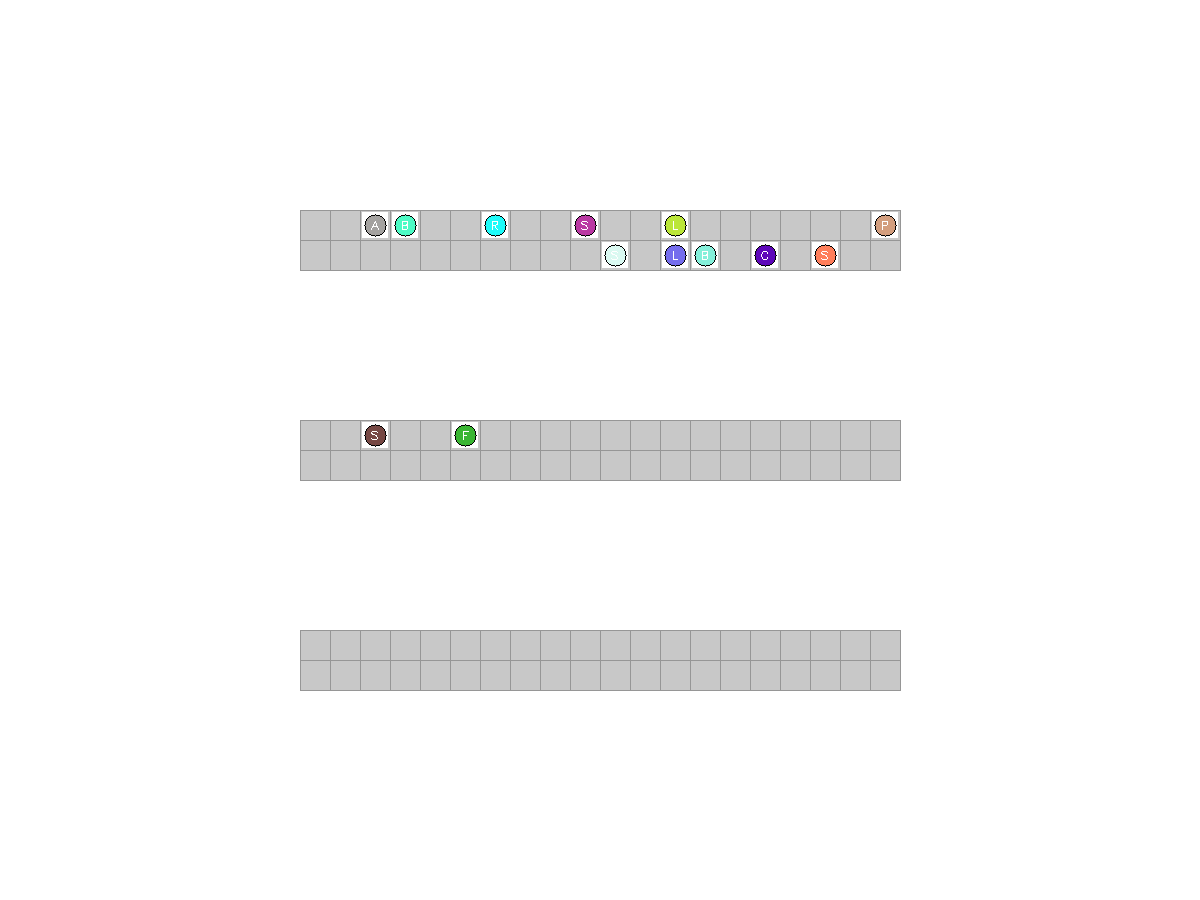
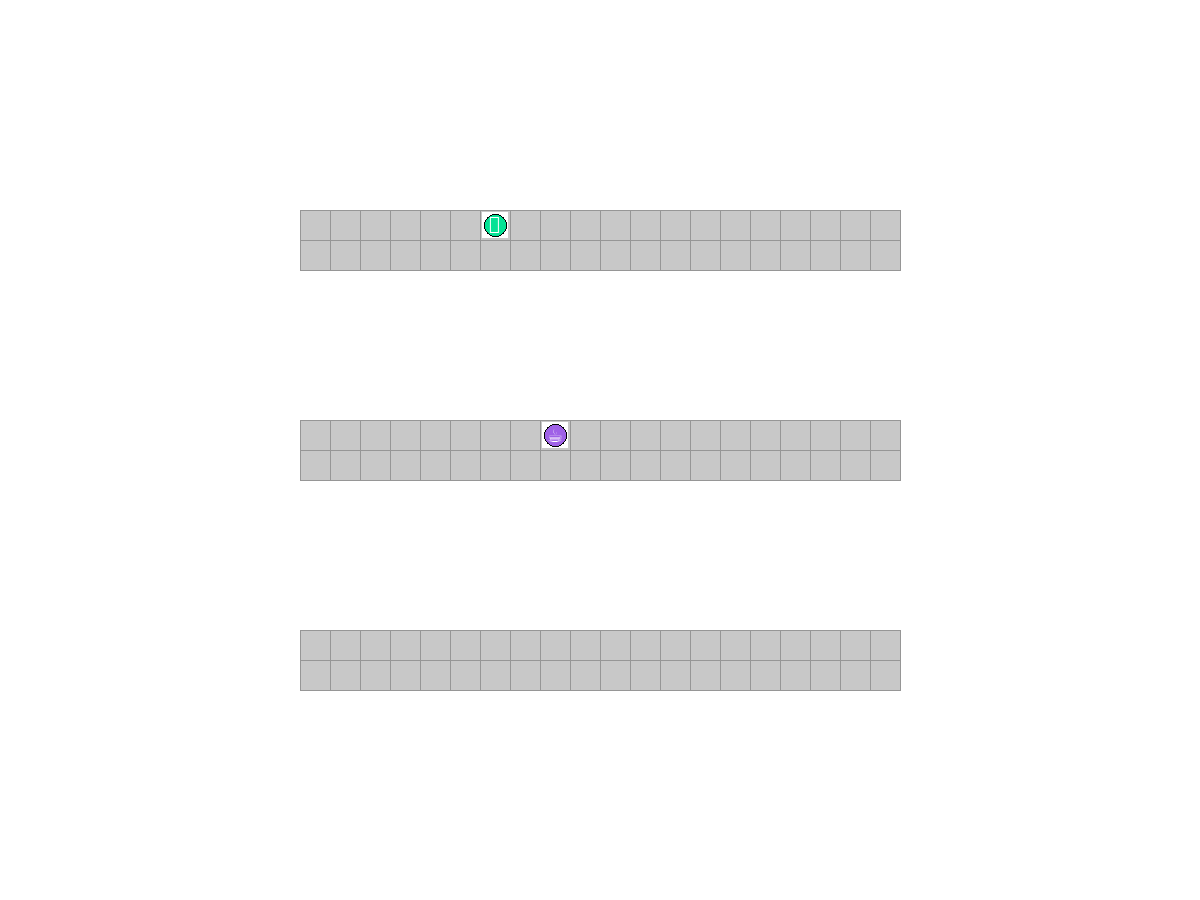
items

diff --git a/frontend/src/App.jsx b/frontend/src/App.jsx
@@ -101,6 +101,24 @@ function App() {
 
       <main className="main-content">
         <form className="product-form" onSubmit={handleSubmit}>
+          <div style={{ display: 'flex', gap: '1rem', marginBottom: '1rem', justifyContent: 'center' }}>
+            <button 
+              type="button" 
+              className="action-btn" 
+              style={{ background: 'var(--card-bg)', color: 'var(--text-color)', border: '1px solid var(--border-color)', padding: '0.5rem 1rem', borderRadius: '8px', cursor: 'pointer', flex: 1, maxWidth: '150px' }}
+              onClick={() => setSelectedProducts([...PRODUCTS])}
+            >
+              Select All
+            </button>
+            <button 
+              type="button" 
+              className="action-btn" 
+              style={{ background: 'var(--card-bg)', color: 'var(--text-color)', border: '1px solid var(--border-color)', padding: '0.5rem 1rem', borderRadius: '8px', cursor: 'pointer', flex: 1, maxWidth: '150px' }}
+              onClick={() => setSelectedProducts([])}
+            >
+              Clear All
+            </button>
+          </div>
           <div className="product-grid">
               {PRODUCTS.map((name) => (
               <button

diff --git a/gemini_slop.py b/gemini_slop.py
@@ -4,6 +4,60 @@ import torch.nn as nn
 from scipy.optimize import linear_sum_assignment
 import cv2
 from typing import Dict, Tuple
+from PIL import Image, ImageDraw, ImageFont
+
+PRODUCT_ICONS = {
+    "Bananas": "\U0001f34c",
+    "Avocados": "\U0001f951",
+    "Spinach": "\U0001f96c",
+    "Red Bell Peppers": "\U0001fad1",
+    "Yellow Onions": "\U0001f9c5",
+    "Garlic": "\U0001f9c4",
+    "Lemons": "\U0001f34b",
+    "Russet Potatoes": "\U0001f954",
+    "Cherry Tomatoes": "\U0001f345",
+    "Fresh Strawberries": "\U0001f353",
+    "Large White Eggs": "\U0001f95a",
+    "Whole Milk": "\U0001f95b",
+    "Unsalted Butter": "\U0001f9c8",
+    "Plain Greek Yogurt": "\U0001fad9",
+    "Sharp Cheddar Cheese": "\U0001f9c0",
+    "Cream Cheese": "\U0001f9c0",
+    "Sour Cream": "\U0001fad9",
+    "Oat Milk": "\U0001f95b",
+    "Boneless Skinless Chicken Breasts": "\U0001f357",
+    "80/20 Ground Beef": "\U0001f969",
+    "Center-Cut Bacon": "\U0001f953",
+    "Atlantic Salmon Fillets": "\U0001f41f",
+    "Large Shrimp": "\U0001f990",
+    "Oven-Roasted Turkey Breast": "\U0001f983",
+    "Genoa Salami": "\U0001f953",
+    "Long-Grain White Rice": "\U0001f35a",
+    "Spaghetti Pasta": "\U0001f35d",
+    "All-Purpose Flour": "\U0001f33e",
+    "Granulated White Sugar": "\U0001f9c2",
+    "Old-Fashioned Rolled Oats": "\U0001f963",
+    "Peanut Butter": "\U0001f95c",
+    "Strawberry Jam": "\U0001f353",
+    "Extra Virgin Olive Oil": "\U0001fad2",
+    "Balsamic Vinegar": "\U0001f9f4",
+    "Soy Sauce": "\U0001fad8",
+    "Diced Tomatoes": "\U0001fad6",
+    "Canned Black Beans": "\U0001fad6",
+    "Chicken Broth": "\U0001f372",
+    "Tuna in Water": "\U0001f41f",
+    "Sliced White Sandwich Bread": "\U0001f35e",
+    "Flour Tortillas": "\U0001fad3",
+    "Plain Bagels": "\U0001f96f",
+    "Corn Flakes Cereal": "\U0001f963",
+    "Frozen Sweet Corn": "\U0001f33d",
+    "Frozen French Fries": "\U0001f35f",
+    "Vanilla Ice Cream": "\U0001f366",
+    "Cheese Pizza": "\U0001f355",
+    "Salted Potato Chips": "\U0001f368",
+    "Dark Chocolate Bar": "\U0001f36b",
+    "Ground Coffee": "\u2615",
+}
 
 class StoreLayoutOptimizer:
     def __init__(self, tau: float = 0.1, sinkhorn_iters: int = 20):
@@ -131,43 +185,53 @@ class StoreLayoutOptimizer:
         item_indices, shelf_indices = linear_sum_assignment(-M_soft)
         self.cached_layout = {self.id_to_item[i]: self.shelf_coords[s] for i, s in zip(item_indices, shelf_indices)}
 
-    def _item_icon(self, item: str, size: int) -> np.ndarray:
-        icon = np.ones((size, size, 3), dtype=np.uint8) * 255
+    def _item_icon_pil(self, item: str, size: int) -> Image.Image:
+        icon = Image.new("RGB", (size, size), (255, 255, 255))
+        draw = ImageDraw.Draw(icon)
         color = (
             (hash(item) & 0xFF),
             ((hash(item) >> 8) & 0xFF),
             ((hash(item) >> 16) & 0xFF),
         )
-        cv2.circle(icon, (size // 2, size // 2), size // 2 - 2, color, -1)
-        cv2.circle(icon, (size // 2, size // 2), size // 2 - 2, (0, 0, 0), 1)
-        letter = item[0].upper()
-        font_scale = 0.4
-        (tw, th), _ = cv2.getTextSize(letter, cv2.FONT_HERSHEY_SIMPLEX, font_scale, 1)
-        tx = (size - tw) // 2
-        ty = (size + th) // 2
-        cv2.putText(icon, letter, (tx, ty), cv2.FONT_HERSHEY_SIMPLEX, font_scale, (255, 255, 255), 1)
+        draw.ellipse([2, 2, size - 2, size - 2], fill=color, outline=(0, 0, 0))
+        emoji = PRODUCT_ICONS.get(item, item[0].upper())
+        font_size = size - 8
+        try:
+            font = ImageFont.truetype("/usr/share/fonts/truetype/noto/NotoEmoji-Regular.ttf", font_size)
+        except (IOError, OSError):
+            try:
+                font = ImageFont.truetype("/usr/share/fonts/truetype/dejavu/DejaVuSans.ttf", font_size)
+            except (IOError, OSError):
+                font = ImageFont.load_default()
+        bbox = draw.textbbox((0, 0), emoji, font=font)
+        tw, th = bbox[2] - bbox[0], bbox[3] - bbox[1]
+        tx = (size - tw) // 2 - bbox[0]
+        ty = (size - th) // 2 - bbox[1]
+        draw.text((tx, ty), emoji, font=font, fill=(255, 255, 255))
         return icon
 
     def generate_and_save_map(self, basket_items: list, output_filename: str = "empty_map.png"):
-        """Draws the store, highlights the requested items, and saves it to disk."""
         if not self.cached_layout:
             return
-            
+
         cell_size = 30
         h, w = self.bin_mask.shape
         img = np.ones((h * cell_size, w * cell_size, 3), dtype=np.uint8) * 255
-        
+
         for y in range(h):
             for x in range(w):
                 if self.bin_mask[y, x] == 1:
                     cv2.rectangle(img, (x*cell_size, y*cell_size), ((x+1)*cell_size, (y+1)*cell_size), (200, 200, 200), -1)
                     cv2.rectangle(img, (x*cell_size, y*cell_size), ((x+1)*cell_size, (y+1)*cell_size), (150, 150, 150), 1)
 
+        icon_size = cell_size - 4
         for item in basket_items:
             if item in self.cached_layout:
                 y, x = self.cached_layout[item]
-                center = (int((x + 0.5) * cell_size), int((y + 0.5) * cell_size))
-                cv2.circle(img, center, cell_size // 3, (0, 0, 255), -1)
-                cv2.putText(img, item, (center[0] - 15, center[1] - 15), cv2.FONT_HERSHEY_SIMPLEX, 0.5, (0, 0, 0), 2)
+                pil_icon = self._item_icon_pil(item, icon_size)
+                icon_np = np.array(pil_icon)
+                ox = x * cell_size + 2
+                oy = y * cell_size + 2
+                img[oy:oy + icon_size, ox:ox + icon_size] = icon_np
 
         cv2.imwrite(output_filename, img)